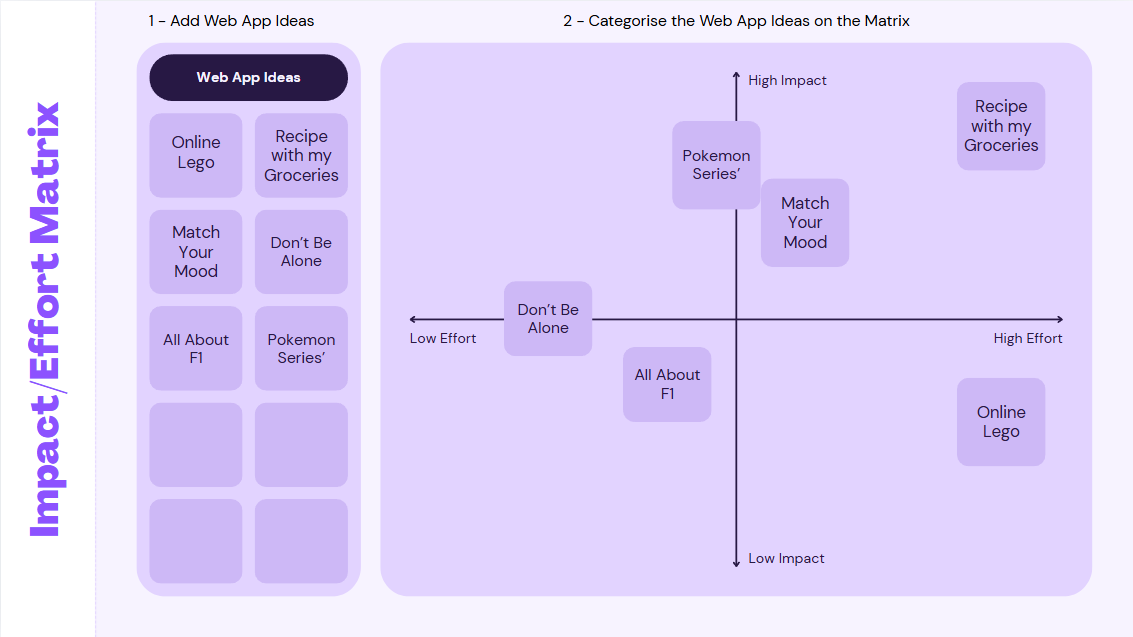
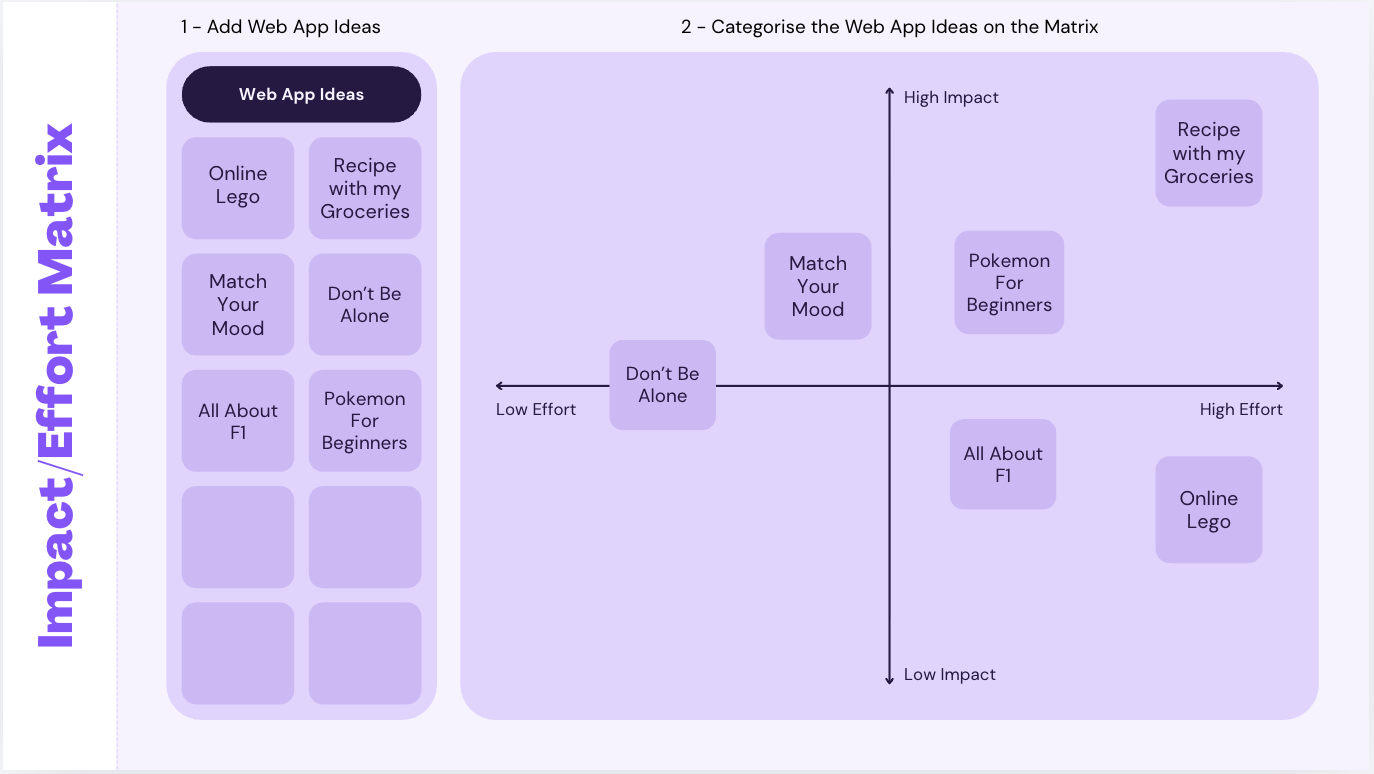
Relfect and Choose, Requirements, Explore Existing Ideas, Primary Research
I finished the plus and minus sections of exploring existing ideas, finished my functional and non-functional requirements, did my reflect and choose section and also released my google form for the primary research section.

I didn't know what to write for my implications section as well as my secondary research as I didn't know if I was researching information about my topic or anything in general??. I also haven't really thought about my designs yet...

diff --git a/Documentation.md b/Documentation.md
@@ -9,7 +9,7 @@
 | - | - | - | - |
 | Recipe with my groceries | When people enter the groceries they have at home, the website will generate different recipes they can try. | It influences people not to waste food. | People who have a hard time using groceries to cook meals. |
 | All about F1 | Informs people about everything on F1 |  | People who want to start getting into F1 | 
-| Pokemon Series' |  |  | | 
+| Pokemon For Beginners |  |  | | 
 | Match your mood | Generates music based on your mood and also if you enter in a song you like, it will find you similar ones |  |  |
 | Online Lego | You can play with lego blocks online and create whatever you want | Influences creativity | Helps those who have limited movements in their hands or can't buy physical lego | 
 | Don't be alone | Teaches people how to deal with people with different personalities based on MBTI |  | Those who have trouble talking and socialising with others |
@@ -23,41 +23,37 @@
 ![](./images/SWOT_2.png)
 
 ### Reflect and Choose
-Write a one-paragraph reflection based on your Impact/Effort Matrix and Peer SWOT Analysis.
+Based on my Impact / Effort Matrix and Peer SWOT Analysis, my ideas like 'Online Lego' and 'Recipe with my Groceries' gave my website a higher impact but required too much development effort for timeline of 5 weeks. Although 'Don't be alone' and 'Match your mood' may have been better options than 'Pokemon for Beginners' and 'All about F1', I felt like they would require too little effort for this task. In terms of my Impact / Effort Matrix for 'All about F1' and 'Pokemon for Beginners', 'Pokemon for Beginners' offered a much higher potential for impact. Looking at the SWOT Analysis, 'All about F1' had a big threat on a high volume market competition which could reduce my website' influence on users. Overall, 'Pokemon for beginners' would be my choice also considering Pokemon's rising influence these days.
 
-Following this, select your final idea and make note of it.
 
-## Requiremets Outline
+## Requirements Outline
 ### Functional Requirements
+My website will serve as a gateway for beginners to get into collecting pokemon cards. It will categorise information into the different eras of cards and show the most popular sets and individuals cards for each era. It will also provide users with other website and apps that will help with calculating card values and tools to check real-time market prices.
+
 ### Non-Functional Requirements
 **Performance**  
+My website must deliver a fast user experience by ensuring pages load under 3 seconds and images of different cards should be of high-quality.
+
 **Usability**  
+The platform must also have an intuitive layout that allows users to navigate easily and quickly between different eras and their popular sets and cards as well as being able to find other resources without any trouble.
+
 **Reliability**  
+The system must be highly dependable to ensure that the website it always available to users. 
+
 **Security**  
+To ensure data safety, the website will not collect personal information and all outgoing links will be checked and validated before being uploaded. 
+
+**Accessibility**
+The website must be all inclusive to users by ensuring that every image includes a descriptive text to support visually impaired individuals who are using screen readers.
 
 
 ## Researching and Planning
 ### Explore Existing Ideas
-Research at least three websites / web applications which are used to influence people. Evaluate each with a PMI (Plus, Minus, Implications) table.
-- fandom   
-
-| Plus | Minus | Implications |
-| - | - | - |
-|  |  |  |
-
-
-- wikipedia
-
-| Plus | Minus | Implications |
-| - | - | - |
-|  |  |  |
-
-
-- formula 1 
-
-| Plus | Minus | Implications |
-| - | - | - |
-|  |  |  |
+| Websites / Web Applications| Plus | Minus | Implications |
+| - | - | - | - |
+| Instagram | Gives small businesses and other creators a free platform to share their work and have a chance of reaching a global audience and can also help people with unique interest or hobbies find online communities all over the world. | Uses features like infinite scrolling to keep users hooked onto the app and also leads to unhealthy comparison as users constantly see edited, perfect versions of other people's lives. |  |
+| Formula 1 | Gives fans access to race schedules, driver standings and news articles for free and provides recaps and team radio clips to make the races easier to follow. | Locks the best data tools and analysis behind premium subscriptions and uses cookie pop-ups to generate ad revenue from free visitors. |  |
+| Amazon | Uses AI to make shopping fast, reliable and accessible for everyone while also allowing small local businesses to use their massive warehouse network to sell products worldwide without owning a factory. | Uses deceptive designs like using fake "limited stock" countdowns timers to trick buyers and also tracks what third-party shops sell on their sites and copies their best selling products to sell them cheaper under its own brand. |  |
 
 
 ### Secondary Research
@@ -80,9 +76,6 @@ Create a prototype of at least your home page and one another page from your web
 
 
 ## Producing and Implementing
-### Development
-Implement your application using appropriate scripting / programming languages (e.g. HTML, CSS, Flask).  
-
 ### Documentation
 Document the whole development process (including all of the above) in a Markdown (.md) file.
 
@@ -90,10 +83,7 @@ Document the whole development process (including all of the above) in a Markdow
 | - | - |
 | 2 | Made the documentation.md files, my mind map and started the 6 big ideas. |
 | 3 | I nearly finished the Diverge section and made the matrix and SWOT for my ideas. |
-| 4 | I decided to change my idea from F1 to Pokemon due to the overflowing amount of pre-existing F1 websites and also started on documenting the development process. |
-
-### Version Control
-Commit all changes to GitHub regularly and make highly detailed comments for each new version.
+| 4 | I decided to change my idea from F1 to Pokemon due to the overflowing amount of pre-existing F1 websites and also started on documenting the development process. I finished the plus and minus sections of exploring existing ideas, finished my functional and non-functional requirements, did my reflect and choose section and also released my google form for the primary research section. |
 
 
 ## Testing and Evaluating
